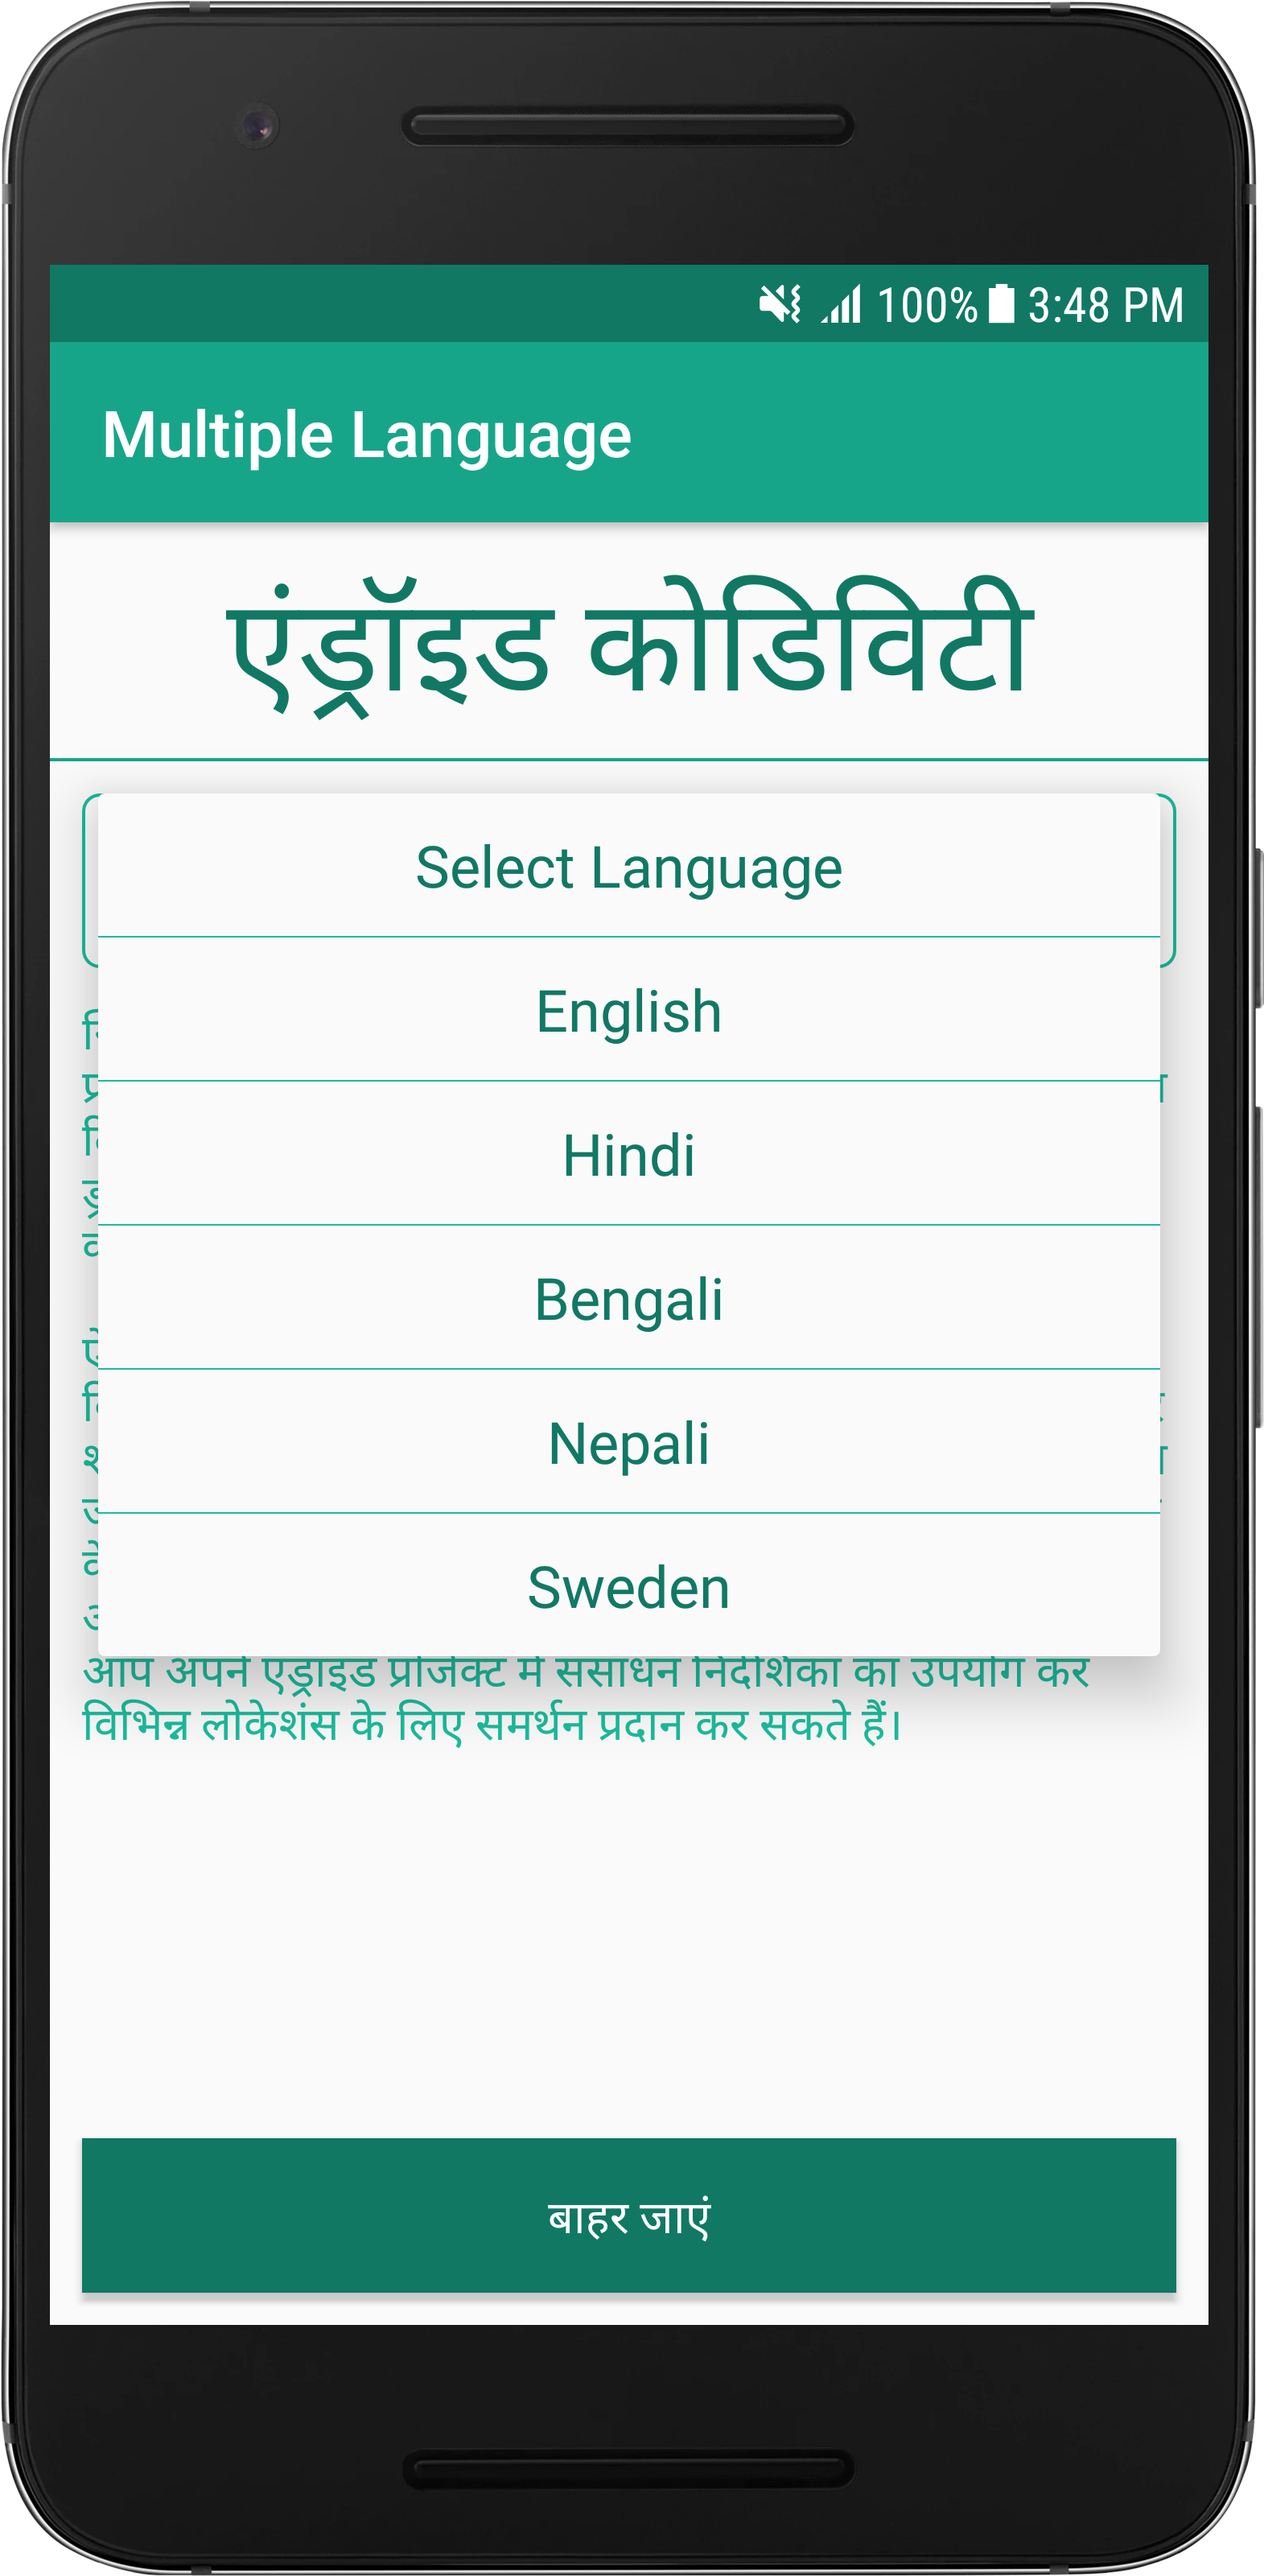
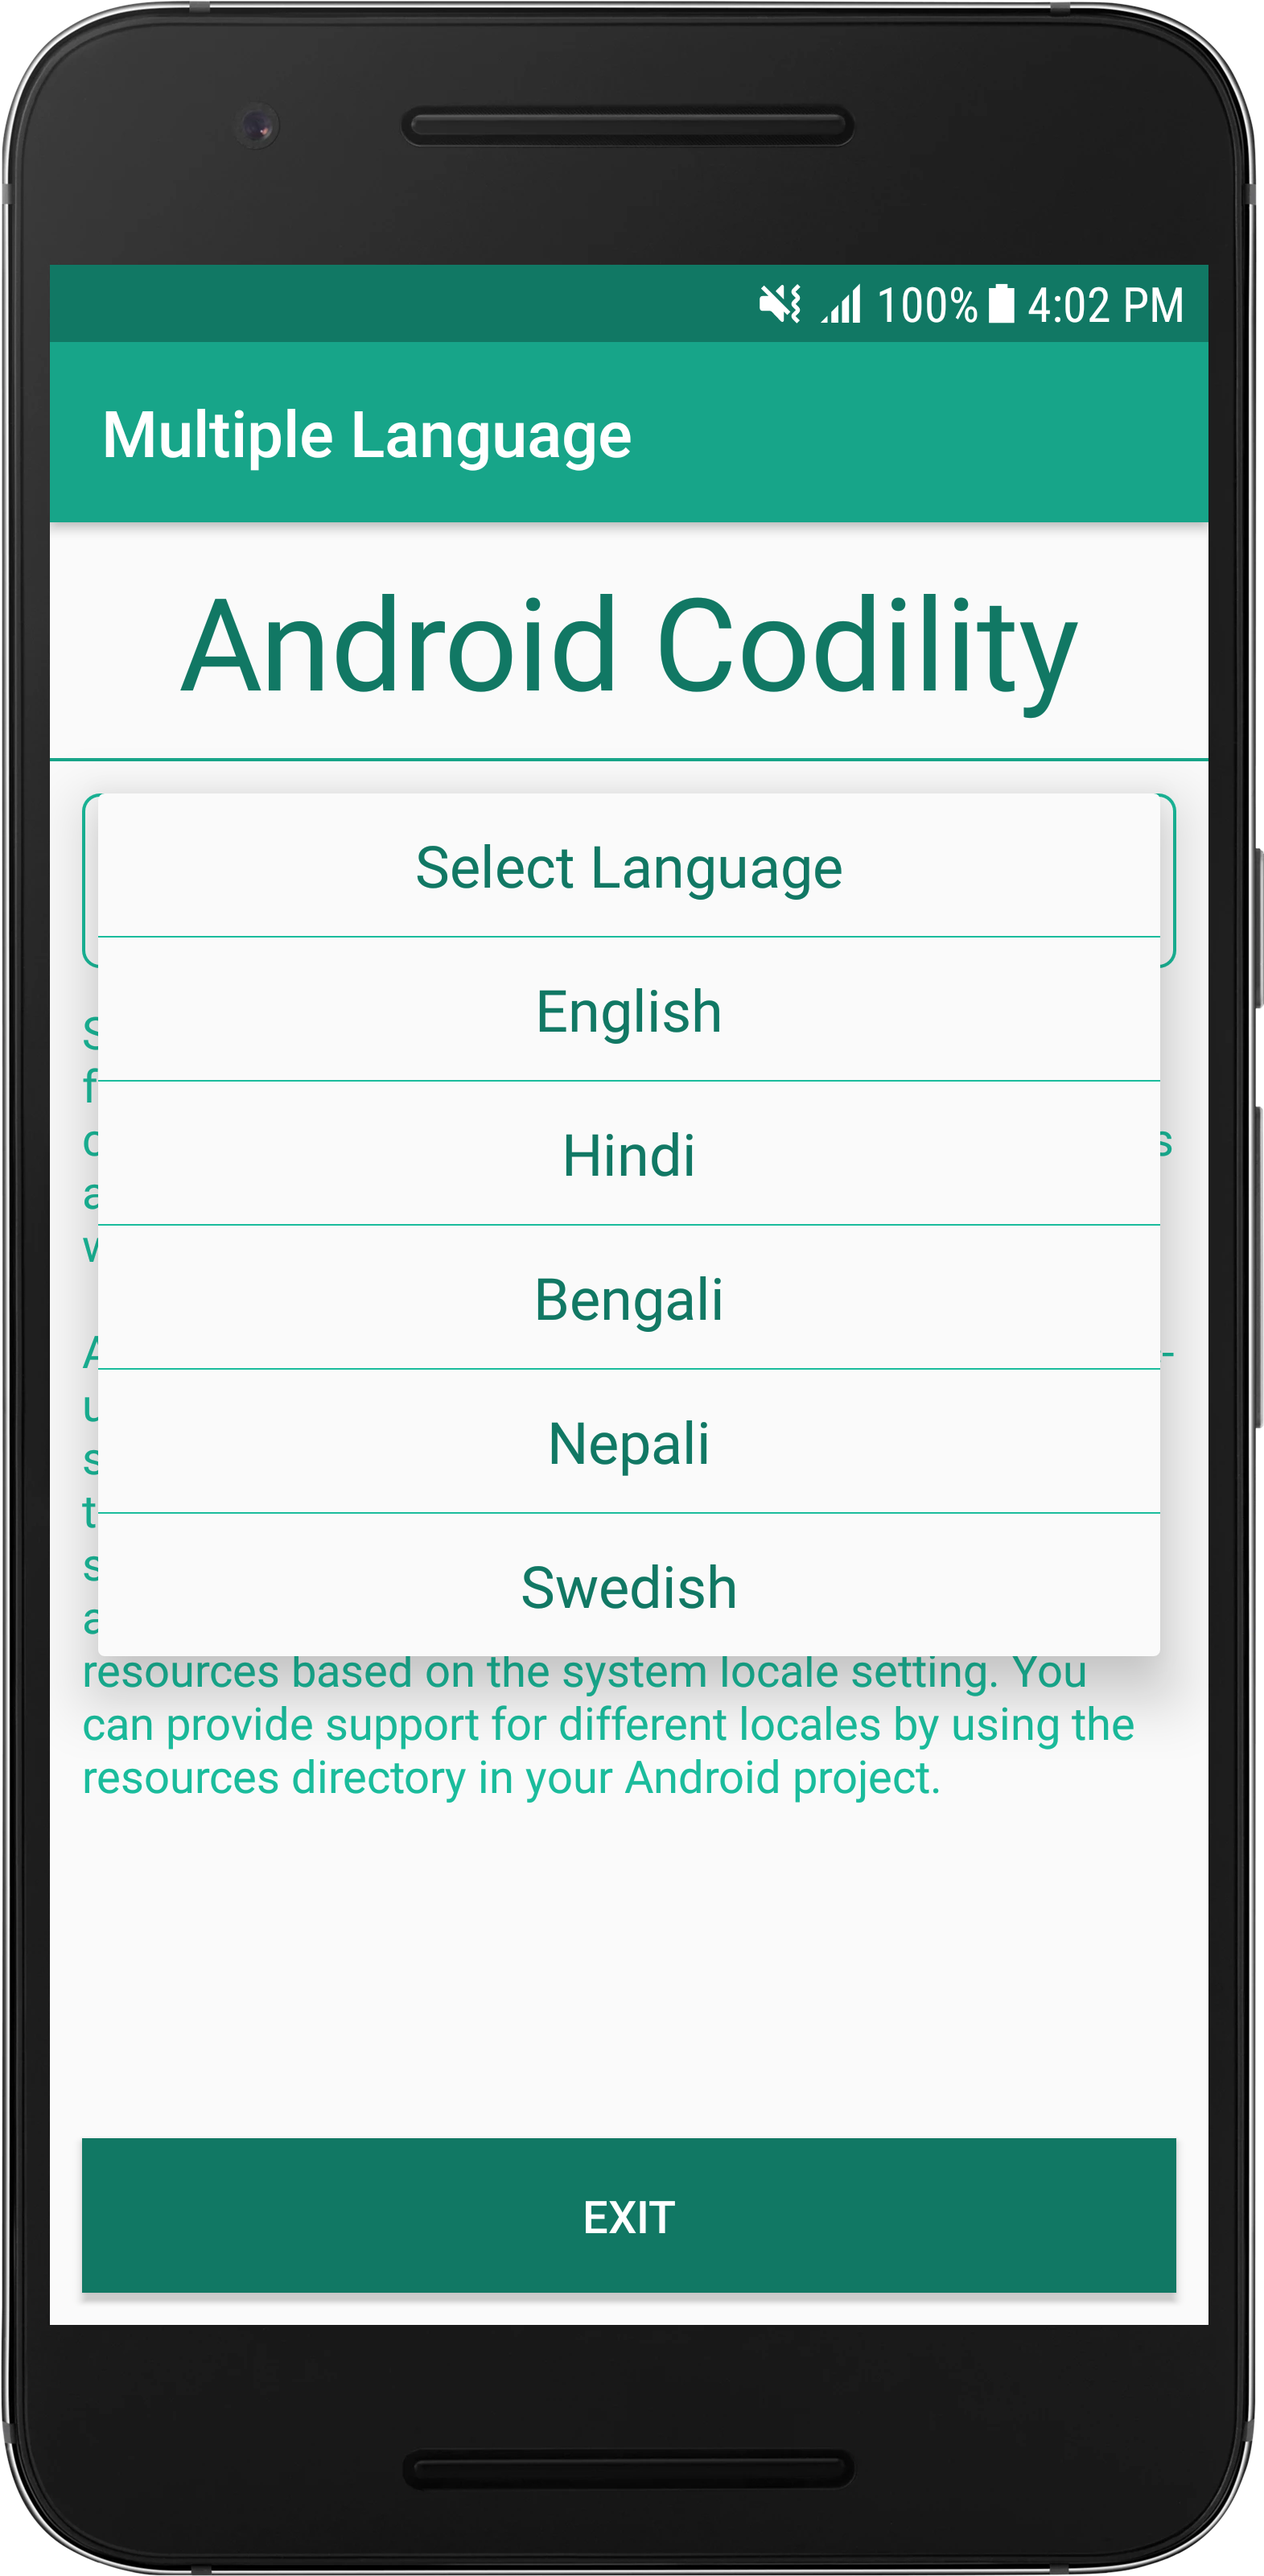
readme added

diff --git a/app/src/main/java/com/codility/multiplelanguage/model/Language.kt b/app/src/main/java/com/codility/multiplelanguage/model/Language.kt
@@ -19,7 +19,7 @@ class Language(name: String, code: String) : Serializable {
             list.add(Language("Hindi", "hi"))
             list.add(Language("Bengali", "bn"))
             list.add(Language("Nepali", "ne"))
-            list.add(Language("Sweden", "sv"))
+            list.add(Language("Swedish", "sv"))
             return list
         }
     }

diff --git a/README.md b/README.md
@@ -1,2 +1,12 @@
-# MultipleLanguageInApp
+# Multiple Language InApp
 Android application to change language or Locale within application from drop-down list of spinner using Kotlin Programming Language.
+
+LANG 1     |  LANG 2 |  LANG 3 |
+:---------:|:----------:|:---------:
+![](https://github.com/AndroidCodility/MultipleLanguageInApp/blob/master/design/main.png?raw=true)  |  ![](https://github.com/AndroidCodility/MultipleLanguageInApp/blob/master/design/drop_down.png?raw=true) |  ![](https://github.com/AndroidCodility/MultipleLanguageInApp/blob/master/design/hindi.png?raw=true) 
+
+# Play Video
+[![](https://github.com/AndroidCodility/MultipleLanguageInApp/blob/master/design/multiple_locale.png?raw=true)](https://youtu.be/hUBQhP983so "Click here to watch")
+
+# Like Facebook Page
+[![](https://github.com/AndroidCodility/Barchart-Graph/blob/master/design/fb.png?raw=true)](https://www.facebook.com/androidcodility/ "Click here")
